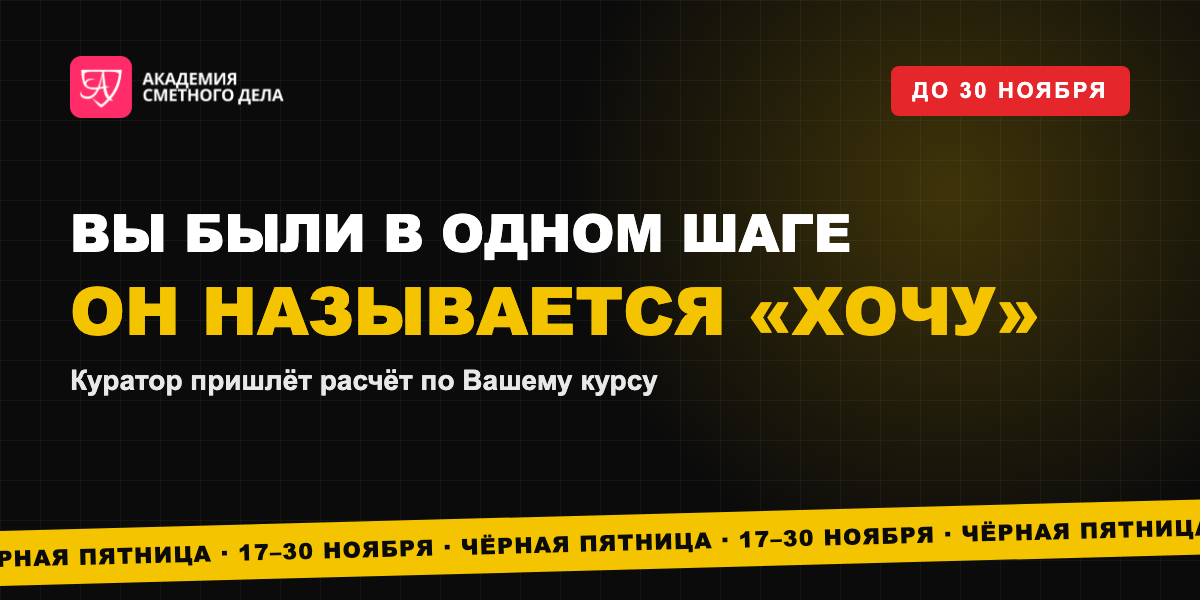
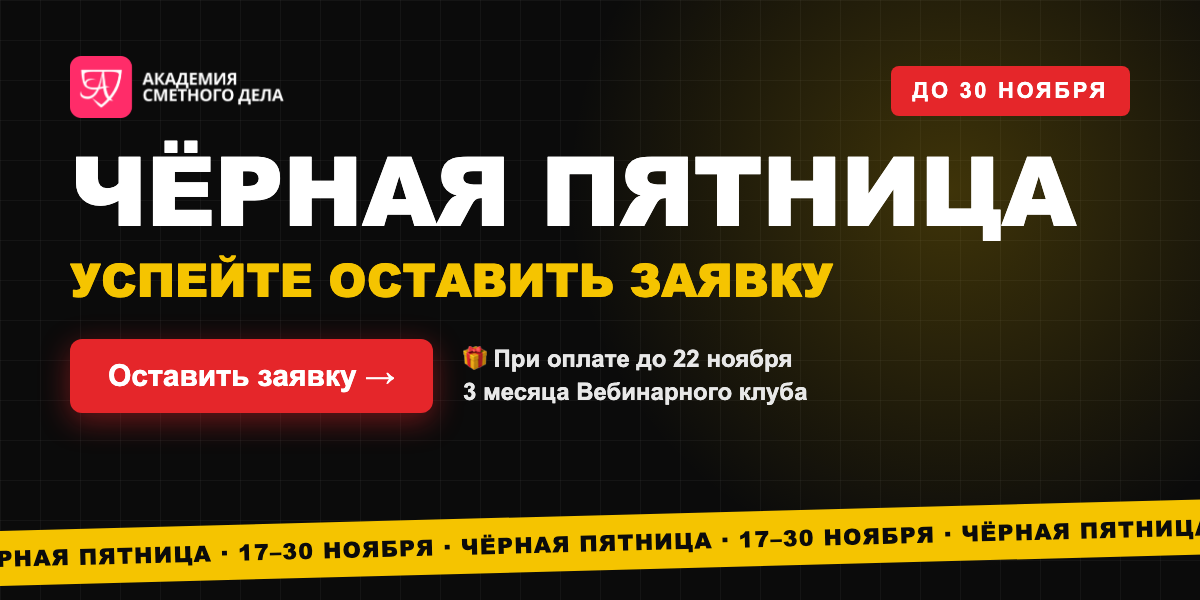
Add files via upload

Changed region(s): [[0.0308, 0.24, 0.8942, 0.72]]

diff --git a/p_20-11_vypuskniki.html b/p_20-11_vypuskniki.html
@@ -16,45 +16,46 @@
 
 <div class="subj">
   <b class="h">20.11 · ВЫПУСКНИКИ АКАДЕМИИ (СЕГМЕНТ «ДЕНЕГ ПРИНЕС БОЛЕЕ 10000») · ЭТОТ БЛОК В ПИСЬМО НЕ ПЕРЕНОСИТЬ</b>
-  <p style="margin:8px 0 4px;font-size:15px"><span style="color:#888">Тема 1:</span> <b>⚫ Выпускникам: на странице для Вас другие цены</b></p>
-  <p style="margin:0 0 4px;font-size:15px"><span style="color:#888">Тема 2:</span> ⚫ {first_name}, Вы видите эту страницу не так, как все</p>
-  <p style="margin:0 0 4px;font-size:15px"><span style="color:#888">Тема 3:</span> ⏳ Курс пройден. Следующий с подарком до воскресенья</p>
-  <p style="margin:0 0 4px;font-size:15px"><span style="color:#888">Прехедер:</span> Цены выпускника видят только те, кто уже учился в Академии</p>
+  <p style="margin:8px 0 4px;font-size:15px"><span style="color:#888">Тема 1:</span> <b>⚫ Лучшие условия Чёрной пятницы для выпускников</b></p>
+  <p style="margin:0 0 4px;font-size:15px"><span style="color:#888">Тема 2:</span> ⚫ {first_name}, для Вас особые условия</p>
+  <p style="margin:0 0 4px;font-size:15px"><span style="color:#888">Тема 3:</span> 🎁 Выпускникам: подарок к курсу до воскресенья</p>
+  <p style="margin:0 0 4px;font-size:15px"><span style="color:#888">Прехедер:</span> Вы учились или учитесь в Академии, поэтому условия для Вас особые</p>
   <p style="margin:0;font-size:15px"><span style="color:#888">Баннер:</span> banner_20-11_vyp.png (1200×600, в письме 600 px), ссылка с баннера = ссылка кнопки</p>
 </div>
 
 <table role="presentation" width="100%" cellpadding="0" cellspacing="0" style="background:#eef0f3">
 <tr><td align="center" style="padding:0 0 32px">
-<div style="display:none;font-size:1px;color:#eef0f3;line-height:1px;max-height:0;max-width:0;opacity:0;overflow:hidden">Цены выпускника видят только те, кто уже учился в Академии&nbsp;&#847;&nbsp;&#847;&nbsp;&#847;&nbsp;&#847;&nbsp;&#847;&nbsp;&#847;</div>
+<div style="display:none;font-size:1px;color:#eef0f3;line-height:1px;max-height:0;max-width:0;opacity:0;overflow:hidden">Вы учились или учитесь в Академии, поэтому условия для Вас особые&nbsp;&#847;&nbsp;&#847;&nbsp;&#847;&nbsp;&#847;&nbsp;&#847;&nbsp;&#847;</div>
 <table role="presentation" class="wrap" width="600" cellpadding="0" cellspacing="0" bgcolor="#ffffff" style="width:600px;background:#ffffff;border-radius:12px;overflow:hidden">
 
   <tr><td style="padding:0;line-height:0"><a href="https://academia-bti.ru/chp2026/vypuskniki?utm_source=email&amp;utm_medium=rassylka&amp;utm_campaign=chp2026&amp;utm_content=pismo_20-11_vyp_banner"><img src="banner_20-11_vyp.png" width="600" alt="Чёрная пятница в Академии Сметного Дела до 30 ноября" style="display:block;width:100%;max-width:600px;height:auto;border:0"></a></td></tr>
 
   <tr><td class="pad" style="padding:36px 44px 6px">
       <p style="margin:0 0 18px;font-family:Arial,Helvetica,sans-serif;font-size:18px;line-height:1.6;color:#1f2329">Здравствуйте, {first_name}!</p>
-      <p style="margin:0 0 18px;font-family:Arial,Helvetica,sans-serif;font-size:17px;line-height:1.6;color:#1f2329">Вы уже прошли курс в Академии. Поэтому на странице Чёрной пятницы для Вас стоят цены выпускника, они ниже цен акции для всех.</p>
-      <p style="margin:0 0 18px;font-family:Arial,Helvetica,sans-serif;font-size:17px;line-height:1.6;color:#1f2329">Какой курс следующий? После Курса начинающего сметчика это Курс повышения квалификации: ресурсно-индексный метод на практике и удостоверение. Тем, кто уже повышал квалификацию, подойдёт Годовая система с новой темой каждый месяц.</p>
+      <p style="margin:0 0 18px;font-family:Arial,Helvetica,sans-serif;font-size:17px;line-height:1.6;color:#1f2329">Сегодня та самая Чёрная пятница. И самые лучшие условия в ней мы приготовили для выпускников.</p>
+      <p style="margin:0 0 18px;font-family:Arial,Helvetica,sans-serif;font-size:17px;line-height:1.6;color:#1f2329">Вы уже учились или учитесь у нас в Академии. Поэтому для Вас условия особые, лучше, чем для всех.</p>
+      <p style="margin:0 0 18px;font-family:Arial,Helvetica,sans-serif;font-size:17px;line-height:1.6;color:#1f2329">Перейдите на страницу акции и оставьте заявку. Куратор посмотрит, что Вы уже прошли, и подберёт для Вас индивидуальные условия на следующий курс.</p>
   </td></tr>
 
   <tr><td class="pad" style="padding:8px 44px 8px">
     <table role="presentation" width="100%" cellpadding="0" cellspacing="0" bgcolor="#FFF7D6" style="background:#FFF7D6;border-left:5px solid #F5C400;border-radius:8px">
     <tr><td style="padding:22px 24px 12px">
       <p style="margin:0 0 16px;font-family:Arial,Helvetica,sans-serif;font-size:19px;line-height:1.3;font-weight:bold;color:#0b0b0b">Что мы предлагаем выпускникам</p>
-      <table role="presentation" cellpadding="0" cellspacing="0"><tr><td valign="top" style="padding:0 12px 12px 0;font-family:Arial,Helvetica,sans-serif;font-size:18px;line-height:1.5;color:#E5262A;font-weight:bold">&#10004;</td><td style="padding:0 0 12px;font-family:Arial,Helvetica,sans-serif;font-size:16px;line-height:1.55;color:#1f2329">Цены выпускника на все курсы Академии до 30&nbsp;ноября. Статус выпускника куратор подтвердит при расчёте.</td></tr><tr><td valign="top" style="padding:0 12px 12px 0;font-family:Arial,Helvetica,sans-serif;font-size:18px;line-height:1.5;color:#E5262A;font-weight:bold">&#10004;</td><td style="padding:0 0 12px;font-family:Arial,Helvetica,sans-serif;font-size:16px;line-height:1.55;color:#1f2329">К любому курсу в подарок запись конференции «Горизонты сметного дела».</td></tr><tr><td valign="top" style="padding:0 12px 12px 0;font-family:Arial,Helvetica,sans-serif;font-size:18px;line-height:1.5;color:#E5262A;font-weight:bold">&#10004;</td><td style="padding:0 0 12px;font-family:Arial,Helvetica,sans-serif;font-size:16px;line-height:1.55;color:#1f2329"><b>При оплате до 22&nbsp;ноября включительно</b> ещё и 3&nbsp;месяца Вебинарного клуба: больше 500&nbsp;записей мастер-классов Академии.</td></tr><tr><td valign="top" style="padding:0 12px 12px 0;font-family:Arial,Helvetica,sans-serif;font-size:18px;line-height:1.5;color:#E5262A;font-weight:bold">&#10004;</td><td style="padding:0 0 12px;font-family:Arial,Helvetica,sans-serif;font-size:16px;line-height:1.55;color:#1f2329">Рассрочка без переплат. Нажмите «Хочу» на карточке курса, куратор пришлёт расчёт и поможет оформить.</td></tr></table>
+      <table role="presentation" cellpadding="0" cellspacing="0"><tr><td valign="top" style="padding:0 12px 12px 0;font-family:Arial,Helvetica,sans-serif;font-size:18px;line-height:1.5;color:#E5262A;font-weight:bold">&#10004;</td><td style="padding:0 0 12px;font-family:Arial,Helvetica,sans-serif;font-size:16px;line-height:1.55;color:#1f2329">Особые условия выпускника на все курсы Академии до 30&nbsp;ноября.</td></tr><tr><td valign="top" style="padding:0 12px 12px 0;font-family:Arial,Helvetica,sans-serif;font-size:18px;line-height:1.5;color:#E5262A;font-weight:bold">&#10004;</td><td style="padding:0 0 12px;font-family:Arial,Helvetica,sans-serif;font-size:16px;line-height:1.55;color:#1f2329">Индивидуальный подбор курса и условий от куратора.</td></tr><tr><td valign="top" style="padding:0 12px 12px 0;font-family:Arial,Helvetica,sans-serif;font-size:18px;line-height:1.5;color:#E5262A;font-weight:bold">&#10004;</td><td style="padding:0 0 12px;font-family:Arial,Helvetica,sans-serif;font-size:16px;line-height:1.55;color:#1f2329">К любому курсу в подарок запись конференции «Горизонты сметного дела».</td></tr><tr><td valign="top" style="padding:0 12px 12px 0;font-family:Arial,Helvetica,sans-serif;font-size:18px;line-height:1.5;color:#E5262A;font-weight:bold">&#10004;</td><td style="padding:0 0 12px;font-family:Arial,Helvetica,sans-serif;font-size:16px;line-height:1.55;color:#1f2329"><b>При оплате до 22&nbsp;ноября включительно</b> ещё и 3&nbsp;месяца Вебинарного клуба: больше 500&nbsp;записей мастер-классов Академии.</td></tr><tr><td valign="top" style="padding:0 12px 12px 0;font-family:Arial,Helvetica,sans-serif;font-size:18px;line-height:1.5;color:#E5262A;font-weight:bold">&#10004;</td><td style="padding:0 0 12px;font-family:Arial,Helvetica,sans-serif;font-size:16px;line-height:1.55;color:#1f2329">Рассрочка без переплат.</td></tr></table>
     </td></tr></table>
   </td></tr>
 
   <tr><td class="pad" style="padding:30px 44px 10px;text-align:center">
     <table role="presentation" cellpadding="0" cellspacing="0" align="center" style="margin:0 auto"><tr>
 <td align="center" bgcolor="#E5262A" style="background:#E5262A;border-radius:8px">
-<a href="https://academia-bti.ru/chp2026/vypuskniki?utm_source=email&amp;utm_medium=rassylka&amp;utm_campaign=chp2026&amp;utm_content=pismo_20-11_vyp_button" style="display:inline-block;padding:17px 38px;font-family:Arial,Helvetica,sans-serif;font-size:18px;font-weight:bold;color:#ffffff;text-decoration:none">Увидеть цены выпускника &rarr;</a>
+<a href="https://academia-bti.ru/chp2026/vypuskniki?utm_source=email&amp;utm_medium=rassylka&amp;utm_campaign=chp2026&amp;utm_content=pismo_20-11_vyp_button" style="display:inline-block;padding:17px 38px;font-family:Arial,Helvetica,sans-serif;font-size:18px;font-weight:bold;color:#ffffff;text-decoration:none">Оставить заявку &rarr;</a>
 </td></tr></table>
   </td></tr>
 
   <tr><td class="pad" style="padding:24px 44px 10px">
-      <p style="margin:0 0 18px;font-family:Arial,Helvetica,sans-serif;font-size:17px;line-height:1.6;color:#1f2329">Сегодня пятница, 20&nbsp;ноября, та самая. Цены выпускника открыты на странице акции.</p>
+      <p style="margin:0 0 18px;font-family:Arial,Helvetica,sans-serif;font-size:17px;line-height:1.6;color:#1f2329">Чёрная пятница идёт до 30&nbsp;ноября, подарок к оплате действует до воскресенья. Оставьте заявку сегодня, чтобы куратор успел всё подобрать.</p>
       <p style="margin:0 0 22px;font-family:Arial,Helvetica,sans-serif;font-size:17px;line-height:1.6;color:#1f2329">С уважением,<br><b>команда Академии Сметного Дела</b></p>
-      <p style="margin:0 0 8px;font-family:Arial,Helvetica,sans-serif;font-size:15px;line-height:1.6;color:#5b616b">P.S. Не знаете, что выбрать? Ответьте на письмо, куратор посмотрит, что Вы уже прошли, и подберёт курс.</p>
+      <p style="margin:0 0 8px;font-family:Arial,Helvetica,sans-serif;font-size:15px;line-height:1.6;color:#5b616b">P.S. Остались вопросы? Ответьте на это письмо, куратор ответит лично.</p>
   </td></tr>
 
   <tr><td class="pad" style="padding:20px 44px 28px;border-top:1px solid #e6e8eb;font-family:Arial,Helvetica,sans-serif;font-size:13px;line-height:1.6;color:#8a9099">

diff --git a/p_20-11_zashli.html b/p_20-11_zashli.html
@@ -16,46 +16,46 @@
 
 <div class="subj">
   <b class="h">20.11 · ЗАХОДИЛИ НА СТРАНИЦУ АКЦИИ И НЕ ОСТАВИЛИ ЗАЯВКУ (ВСЕ СЕГМЕНТЫ) · ЭТОТ БЛОК В ПИСЬМО НЕ ПЕРЕНОСИТЬ</b>
-  <p style="margin:8px 0 4px;font-size:15px"><span style="color:#888">Тема 1:</span> <b>👀 {first_name}, Вы не нажали одну кнопку</b></p>
-  <p style="margin:0 0 4px;font-size:15px"><span style="color:#888">Тема 2:</span> ⚫ Вы были в одном шаге. Он короче, чем кажется</p>
-  <p style="margin:0 0 4px;font-size:15px"><span style="color:#888">Тема 3:</span> Нажмите «Хочу», и куратор посчитает всё за Вас</p>
-  <p style="margin:0 0 4px;font-size:15px"><span style="color:#888">Прехедер:</span> Сегодня та самая пятница, а подарок к курсу до воскресенья</p>
+  <p style="margin:8px 0 4px;font-size:15px"><span style="color:#888">Тема 1:</span> <b>⚫ Сегодня та самая пятница. Успейте оставить заявку</b></p>
+  <p style="margin:0 0 4px;font-size:15px"><span style="color:#888">Тема 2:</span> ⚫ {first_name}, успейте оставить заявку</p>
+  <p style="margin:0 0 4px;font-size:15px"><span style="color:#888">Тема 3:</span> 🎁 Самые лучшие условия года. Подарок до воскресенья</p>
+  <p style="margin:0 0 4px;font-size:15px"><span style="color:#888">Прехедер:</span> Сейчас лучшие условия на всё обучение Академии. Не упустите их</p>
   <p style="margin:0;font-size:15px"><span style="color:#888">Баннер:</span> banner_20-11_zashli.png (1200×600, в письме 600 px), ссылка с баннера = ссылка кнопки</p>
 </div>
 
 <table role="presentation" width="100%" cellpadding="0" cellspacing="0" style="background:#eef0f3">
 <tr><td align="center" style="padding:0 0 32px">
-<div style="display:none;font-size:1px;color:#eef0f3;line-height:1px;max-height:0;max-width:0;opacity:0;overflow:hidden">Сегодня та самая пятница, а подарок к курсу до воскресенья&nbsp;&#847;&nbsp;&#847;&nbsp;&#847;&nbsp;&#847;&nbsp;&#847;&nbsp;&#847;</div>
+<div style="display:none;font-size:1px;color:#eef0f3;line-height:1px;max-height:0;max-width:0;opacity:0;overflow:hidden">Сейчас лучшие условия на всё обучение Академии. Не упустите их&nbsp;&#847;&nbsp;&#847;&nbsp;&#847;&nbsp;&#847;&nbsp;&#847;&nbsp;&#847;</div>
 <table role="presentation" class="wrap" width="600" cellpadding="0" cellspacing="0" bgcolor="#ffffff" style="width:600px;background:#ffffff;border-radius:12px;overflow:hidden">
 
   <tr><td style="padding:0;line-height:0"><a href="https://academia-bti.ru/chp2026/akciya?utm_source=email&amp;utm_medium=rassylka&amp;utm_campaign=chp2026&amp;utm_content=pismo_20-11_zashli_banner"><img src="banner_20-11_zashli.png" width="600" alt="Чёрная пятница в Академии Сметного Дела до 30 ноября" style="display:block;width:100%;max-width:600px;height:auto;border:0"></a></td></tr>
 
   <tr><td class="pad" style="padding:36px 44px 6px">
       <p style="margin:0 0 18px;font-family:Arial,Helvetica,sans-serif;font-size:18px;line-height:1.6;color:#1f2329">Здравствуйте, {first_name}!</p>
-      <p style="margin:0 0 18px;font-family:Arial,Helvetica,sans-serif;font-size:17px;line-height:1.6;color:#1f2329">Вы открывали страницу Чёрной пятницы в Академии. До заявки оставалось одно нажатие.</p>
-      <p style="margin:0 0 18px;font-family:Arial,Helvetica,sans-serif;font-size:17px;line-height:1.6;color:#1f2329">«Хочу» на карточке курса не оплата. Это просьба к куратору: он пришлёт расчёт, расскажет про рассрочку и ответит на вопросы.</p>
-      <p style="margin:0 0 18px;font-family:Arial,Helvetica,sans-serif;font-size:17px;line-height:1.6;color:#1f2329">Выбираете между двумя курсами? Напишите в ответ, какими, куратор поможет сравнить.</p>
+      <p style="margin:0 0 18px;font-family:Arial,Helvetica,sans-serif;font-size:17px;line-height:1.6;color:#1f2329">Сегодня 20&nbsp;ноября, та самая Чёрная пятница. Раз в год мы открываем самые лучшие условия на всё обучение Академии, и сейчас именно это время.</p>
+      <p style="margin:0 0 18px;font-family:Arial,Helvetica,sans-serif;font-size:17px;line-height:1.6;color:#1f2329">Хотите освоить профессию сметчика, повысить квалификацию или разобраться в отдельной теме, выгоднее, чем сейчас, не будет. После 30&nbsp;ноября условия Чёрной пятницы закончатся.</p>
+      <p style="margin:0 0 18px;font-family:Arial,Helvetica,sans-serif;font-size:17px;line-height:1.6;color:#1f2329">А тем, кто оплатит обучение до воскресенья, мы дарим ещё и 3&nbsp;месяца Вебинарного клуба. Нам очень хочется, чтобы Вы успели.</p>
   </td></tr>
 
   <tr><td class="pad" style="padding:8px 44px 8px">
     <table role="presentation" width="100%" cellpadding="0" cellspacing="0" bgcolor="#FFF7D6" style="background:#FFF7D6;border-left:5px solid #F5C400;border-radius:8px">
     <tr><td style="padding:22px 24px 12px">
-      <p style="margin:0 0 16px;font-family:Arial,Helvetica,sans-serif;font-size:19px;line-height:1.3;font-weight:bold;color:#0b0b0b">Что ждёт Вас на странице</p>
-      <table role="presentation" cellpadding="0" cellspacing="0"><tr><td valign="top" style="padding:0 12px 12px 0;font-family:Arial,Helvetica,sans-serif;font-size:18px;line-height:1.5;color:#E5262A;font-weight:bold">&#10004;</td><td style="padding:0 0 12px;font-family:Arial,Helvetica,sans-serif;font-size:16px;line-height:1.55;color:#1f2329">Все курсы Академии на особых условиях до 30&nbsp;ноября.</td></tr><tr><td valign="top" style="padding:0 12px 12px 0;font-family:Arial,Helvetica,sans-serif;font-size:18px;line-height:1.5;color:#E5262A;font-weight:bold">&#10004;</td><td style="padding:0 0 12px;font-family:Arial,Helvetica,sans-serif;font-size:16px;line-height:1.55;color:#1f2329">К любому курсу в подарок запись конференции «Горизонты сметного дела».</td></tr><tr><td valign="top" style="padding:0 12px 12px 0;font-family:Arial,Helvetica,sans-serif;font-size:18px;line-height:1.5;color:#E5262A;font-weight:bold">&#10004;</td><td style="padding:0 0 12px;font-family:Arial,Helvetica,sans-serif;font-size:16px;line-height:1.55;color:#1f2329"><b>При оплате до 22&nbsp;ноября включительно</b> ещё и 3&nbsp;месяца Вебинарного клуба: больше 500&nbsp;записей мастер-классов Академии.</td></tr><tr><td valign="top" style="padding:0 12px 12px 0;font-family:Arial,Helvetica,sans-serif;font-size:18px;line-height:1.5;color:#E5262A;font-weight:bold">&#10004;</td><td style="padding:0 0 12px;font-family:Arial,Helvetica,sans-serif;font-size:16px;line-height:1.55;color:#1f2329">Рассрочка без переплат. Нажмите «Хочу» на карточке курса, куратор пришлёт расчёт и поможет оформить.</td></tr></table>
+      <p style="margin:0 0 16px;font-family:Arial,Helvetica,sans-serif;font-size:19px;line-height:1.3;font-weight:bold;color:#0b0b0b">Что Вы получаете в Чёрную пятницу</p>
+      <table role="presentation" cellpadding="0" cellspacing="0"><tr><td valign="top" style="padding:0 12px 12px 0;font-family:Arial,Helvetica,sans-serif;font-size:18px;line-height:1.5;color:#E5262A;font-weight:bold">&#10004;</td><td style="padding:0 0 12px;font-family:Arial,Helvetica,sans-serif;font-size:16px;line-height:1.55;color:#1f2329">Самые лучшие условия года на все курсы Академии до 30&nbsp;ноября.</td></tr><tr><td valign="top" style="padding:0 12px 12px 0;font-family:Arial,Helvetica,sans-serif;font-size:18px;line-height:1.5;color:#E5262A;font-weight:bold">&#10004;</td><td style="padding:0 0 12px;font-family:Arial,Helvetica,sans-serif;font-size:16px;line-height:1.55;color:#1f2329">К любому курсу в подарок запись конференции «Горизонты сметного дела».</td></tr><tr><td valign="top" style="padding:0 12px 12px 0;font-family:Arial,Helvetica,sans-serif;font-size:18px;line-height:1.5;color:#E5262A;font-weight:bold">&#10004;</td><td style="padding:0 0 12px;font-family:Arial,Helvetica,sans-serif;font-size:16px;line-height:1.55;color:#1f2329"><b>При оплате до 22&nbsp;ноября включительно</b> ещё и 3&nbsp;месяца Вебинарного клуба: больше 500&nbsp;записей мастер-классов Академии.</td></tr><tr><td valign="top" style="padding:0 12px 12px 0;font-family:Arial,Helvetica,sans-serif;font-size:18px;line-height:1.5;color:#E5262A;font-weight:bold">&#10004;</td><td style="padding:0 0 12px;font-family:Arial,Helvetica,sans-serif;font-size:16px;line-height:1.55;color:#1f2329">Рассрочка без переплат и помощь в выборе курса.</td></tr></table>
     </td></tr></table>
   </td></tr>
 
   <tr><td class="pad" style="padding:30px 44px 10px;text-align:center">
     <table role="presentation" cellpadding="0" cellspacing="0" align="center" style="margin:0 auto"><tr>
 <td align="center" bgcolor="#E5262A" style="background:#E5262A;border-radius:8px">
-<a href="https://academia-bti.ru/chp2026/akciya?utm_source=email&amp;utm_medium=rassylka&amp;utm_campaign=chp2026&amp;utm_content=pismo_20-11_zashli_button" style="display:inline-block;padding:17px 38px;font-family:Arial,Helvetica,sans-serif;font-size:18px;font-weight:bold;color:#ffffff;text-decoration:none">Сделать этот шаг &rarr;</a>
+<a href="https://academia-bti.ru/chp2026/akciya?utm_source=email&amp;utm_medium=rassylka&amp;utm_campaign=chp2026&amp;utm_content=pismo_20-11_zashli_button" style="display:inline-block;padding:17px 38px;font-family:Arial,Helvetica,sans-serif;font-size:18px;font-weight:bold;color:#ffffff;text-decoration:none">Оставить заявку &rarr;</a>
 </td></tr></table>
   </td></tr>
 
   <tr><td class="pad" style="padding:24px 44px 10px">
-      <p style="margin:0 0 18px;font-family:Arial,Helvetica,sans-serif;font-size:17px;line-height:1.6;color:#1f2329">Сегодня пятница, 20&nbsp;ноября, та самая. Подарок к оплате действует до воскресенья.</p>
+      <p style="margin:0 0 18px;font-family:Arial,Helvetica,sans-serif;font-size:17px;line-height:1.6;color:#1f2329">Оставьте заявку сегодня, и мы подберём курс и условия под Вашу задачу. Будем рады видеть Вас среди наших учеников.</p>
       <p style="margin:0 0 22px;font-family:Arial,Helvetica,sans-serif;font-size:17px;line-height:1.6;color:#1f2329">С уважением,<br><b>команда Академии Сметного Дела</b></p>
-      <p style="margin:0 0 8px;font-family:Arial,Helvetica,sans-serif;font-size:15px;line-height:1.6;color:#5b616b">P.S. Расскажите в ответ на письмо, чем занимаетесь, и куратор подберёт курс под Вашу задачу.</p>
+      <p style="margin:0 0 8px;font-family:Arial,Helvetica,sans-serif;font-size:15px;line-height:1.6;color:#5b616b">P.S. Остались вопросы? Просто ответьте на это письмо, мы ответим лично.</p>
   </td></tr>
 
   <tr><td class="pad" style="padding:20px 44px 28px;border-top:1px solid #e6e8eb;font-family:Arial,Helvetica,sans-serif;font-size:13px;line-height:1.6;color:#8a9099">

diff --git a/p_20-11_specialisty.html b/p_20-11_specialisty.html
@@ -15,26 +15,29 @@
 <body>
 
 <div class="subj">
-  <b class="h">20.11 · СПЕЦИАЛИСТЫ СМЕТНОГО ДЕЛА (ПОВЫШЕНИЕ КВАЛИФИКАЦИИ, ГОДОВАЯ СИСТЕМА) · ЭТОТ БЛОК В ПИСЬМО НЕ ПЕРЕНОСИТЬ</b>
-  <p style="margin:8px 0 4px;font-size:15px"><span style="color:#888">Тема 1:</span> <b>⚫ {first_name}, на что сослаться, когда смету вернули?</b></p>
-  <p style="margin:0 0 4px;font-size:15px"><span style="color:#888">Тема 2:</span> ⚫ Специалистам сметного дела: та самая пятница</p>
-  <p style="margin:0 0 4px;font-size:15px"><span style="color:#888">Тема 3:</span> ⏳ Удостоверение за три недели и подарок до воскресенья</p>
-  <p style="margin:0 0 4px;font-size:15px"><span style="color:#888">Прехедер:</span> Методики в редакциях 2026 года, ФСНБ-2022 и ресурсно-индексный метод на практике</p>
+  <b class="h">20.11 · СПЕЦИАЛИСТЫ СМЕТНОГО ДЕЛА (ВЫСОТКА, ПОВЫШЕНИЕ КВАЛИФИКАЦИИ, СПЕЦКУРСЫ, ГОДОВАЯ СИСТЕМА) · ЭТОТ БЛОК В ПИСЬМО НЕ ПЕРЕНОСИТЬ</b>
+  <p style="margin:8px 0 4px;font-size:15px"><span style="color:#888">Тема 1:</span> <b>⚫ Сегодня та самая Чёрная пятница</b></p>
+  <p style="margin:0 0 4px;font-size:15px"><span style="color:#888">Тема 2:</span> ⚫ {first_name}, сегодня та самая Чёрная пятница</p>
+  <p style="margin:0 0 4px;font-size:15px"><span style="color:#888">Тема 3:</span> 🎁 Курсы, спецкурсы и Годовая система с подарком</p>
+  <p style="margin:0 0 4px;font-size:15px"><span style="color:#888">Прехедер:</span> Раз в год лучшие условия сразу на всё обучение Академии. Подарок до воскресенья</p>
   <p style="margin:0;font-size:15px"><span style="color:#888">Баннер:</span> banner_20-11_spec.png (1200×600, в письме 600 px), ссылка с баннера = ссылка кнопки</p>
 </div>
 
 <table role="presentation" width="100%" cellpadding="0" cellspacing="0" style="background:#eef0f3">
 <tr><td align="center" style="padding:0 0 32px">
-<div style="display:none;font-size:1px;color:#eef0f3;line-height:1px;max-height:0;max-width:0;opacity:0;overflow:hidden">Методики в редакциях 2026 года, ФСНБ-2022 и ресурсно-индексный метод на практике&nbsp;&#847;&nbsp;&#847;&nbsp;&#847;&nbsp;&#847;&nbsp;&#847;&nbsp;&#847;</div>
+<div style="display:none;font-size:1px;color:#eef0f3;line-height:1px;max-height:0;max-width:0;opacity:0;overflow:hidden">Раз в год лучшие условия сразу на всё обучение Академии. Подарок до воскресенья&nbsp;&#847;&nbsp;&#847;&nbsp;&#847;&nbsp;&#847;&nbsp;&#847;&nbsp;&#847;</div>
 <table role="presentation" class="wrap" width="600" cellpadding="0" cellspacing="0" bgcolor="#ffffff" style="width:600px;background:#ffffff;border-radius:12px;overflow:hidden">
 
   <tr><td style="padding:0;line-height:0"><a href="https://academia-bti.ru/chp2026/akciya?utm_source=email&amp;utm_medium=rassylka&amp;utm_campaign=chp2026&amp;utm_content=pismo_20-11_spec_banner"><img src="banner_20-11_spec.png" width="600" alt="Чёрная пятница в Академии Сметного Дела до 30 ноября" style="display:block;width:100%;max-width:600px;height:auto;border:0"></a></td></tr>
 
   <tr><td class="pad" style="padding:36px 44px 6px">
       <p style="margin:0 0 18px;font-family:Arial,Helvetica,sans-serif;font-size:18px;line-height:1.6;color:#1f2329">Здравствуйте, {first_name}!</p>
-      <p style="margin:0 0 18px;font-family:Arial,Helvetica,sans-serif;font-size:17px;line-height:1.6;color:#1f2329">Замечание экспертизы: неверный квартал цен. Или перевозка посчитана не так. Вы правите смету вечером и ищете, где это написано.</p>
-      <p style="margin:0 0 18px;font-family:Arial,Helvetica,sans-serif;font-size:17px;line-height:1.6;color:#1f2329">На Курсе повышения квалификации изменения 2022–2026 годов собраны в 9 модулей. Две сметы ресурсно-индексным методом Вы составите сами, их проверит куратор. Пройти курс можно за три недели, не уходя с работы. В конце удостоверение о повышении квалификации на 72&nbsp;часа.</p>
-      <p style="margin:0 0 18px;font-family:Arial,Helvetica,sans-serif;font-size:17px;line-height:1.6;color:#1f2329">Хотите учиться весь год? В Годовой системе каждый месяц новая тема и сертификат по ней.</p>
+      <p style="margin:0 0 18px;font-family:Arial,Helvetica,sans-serif;font-size:17px;line-height:1.6;color:#1f2329">Сегодня 20&nbsp;ноября. Та самая Чёрная пятница. Раз в год мы открываем лучшие условия сразу на всё обучение Академии, и этот день настал.</p>
+      <p style="margin:0 0 18px;font-family:Arial,Helvetica,sans-serif;font-size:17px;line-height:1.6;color:#1f2329">Вы работаете со сметами и знаете, как быстро всё меняется: методики, ФСНБ-2022, ресурсно-индексный метод, замечания экспертизы. Разбираться в этом одному, вечерами после работы, долго и тяжело. Мы собрали всё, чтобы Вы работали уверенно и спокойно.</p>
+      <p style="margin:0 0 18px;font-family:Arial,Helvetica,sans-serif;font-size:17px;line-height:1.6;color:#1f2329"><b>Курс повышения квалификации.</b> Изменения 2022–2026 годов в 9 модулях, две сметы ресурсно-индексным методом с проверкой куратора, удостоверение на 72&nbsp;часа.</p>
+      <p style="margin:0 0 18px;font-family:Arial,Helvetica,sans-serif;font-size:17px;line-height:1.6;color:#1f2329"><b>Спецкурсы по отдельным направлениям.</b> Экспертиза сметной документации, НМЦК и смета контракта, текущий ремонт и другие темы.</p>
+      <p style="margin:0 0 18px;font-family:Arial,Helvetica,sans-serif;font-size:17px;line-height:1.6;color:#1f2329"><b>Годовая система.</b> Каждый месяц новая тема и сертификат по ней. Целый год рядом с экспертами Академии.</p>
+      <p style="margin:0 0 18px;font-family:Arial,Helvetica,sans-serif;font-size:17px;line-height:1.6;color:#1f2329"><b>Мы рекомендуем Высотку для опытных.</b> Это два Курса повышения квалификации и Годовая система «Элита» одной покупкой: обучение на весь год вперёд, и в Чёрную пятницу это самое выгодное наше предложение.</p>
   </td></tr>
 
   <tr><td class="pad" style="padding:8px 44px 8px">
@@ -48,14 +51,14 @@
   <tr><td class="pad" style="padding:30px 44px 10px;text-align:center">
     <table role="presentation" cellpadding="0" cellspacing="0" align="center" style="margin:0 auto"><tr>
 <td align="center" bgcolor="#E5262A" style="background:#E5262A;border-radius:8px">
-<a href="https://academia-bti.ru/chp2026/akciya?utm_source=email&amp;utm_medium=rassylka&amp;utm_campaign=chp2026&amp;utm_content=pismo_20-11_spec_button" style="display:inline-block;padding:17px 38px;font-family:Arial,Helvetica,sans-serif;font-size:18px;font-weight:bold;color:#ffffff;text-decoration:none">Посмотреть условия &rarr;</a>
+<a href="https://academia-bti.ru/chp2026/akciya?utm_source=email&amp;utm_medium=rassylka&amp;utm_campaign=chp2026&amp;utm_content=pismo_20-11_spec_button" style="display:inline-block;padding:17px 38px;font-family:Arial,Helvetica,sans-serif;font-size:18px;font-weight:bold;color:#ffffff;text-decoration:none">Выбрать обучение &rarr;</a>
 </td></tr></table>
   </td></tr>
 
   <tr><td class="pad" style="padding:24px 44px 10px">
-      <p style="margin:0 0 18px;font-family:Arial,Helvetica,sans-serif;font-size:17px;line-height:1.6;color:#1f2329">Сегодня пятница, 20&nbsp;ноября, та самая. Условия на оба курса и рассрочку мы показываем на странице акции.</p>
+      <p style="margin:0 0 18px;font-family:Arial,Helvetica,sans-serif;font-size:17px;line-height:1.6;color:#1f2329">Такие условия бывают раз в год. Откройте страницу акции и выберите своё обучение, пока Чёрная пятница идёт.</p>
       <p style="margin:0 0 22px;font-family:Arial,Helvetica,sans-serif;font-size:17px;line-height:1.6;color:#1f2329">С уважением,<br><b>команда Академии Сметного Дела</b></p>
-      <p style="margin:0 0 8px;font-family:Arial,Helvetica,sans-serif;font-size:15px;line-height:1.6;color:#5b616b">P.S. Не знаете, что Вам нужнее? Ответьте на письмо парой слов о своей работе, куратор подберёт курс.</p>
+      <p style="margin:0 0 8px;font-family:Arial,Helvetica,sans-serif;font-size:15px;line-height:1.6;color:#5b616b">P.S. Не знаете, что выбрать? Ответьте на письмо парой слов о своей работе, куратор подберёт обучение.</p>
   </td></tr>
 
   <tr><td class="pad" style="padding:20px 44px 28px;border-top:1px solid #e6e8eb;font-family:Arial,Helvetica,sans-serif;font-size:13px;line-height:1.6;color:#8a9099">

diff --git a/index.html b/index.html
@@ -184,7 +184,7 @@ footer{color:var(--muted);font-size:13px}
 
 <script src="files.js"></script>
 <script>
-const UPDATED = "19 ноября, 18:30 МСК";
+const UPDATED = "19 ноября, 19:00 МСК";
 const TODAY = 19;
 const ST = {
   ok:["s-ok","Отправлено"], wait:["s-wait","У Регины"], check:["s-check","На проверке у Ильдара"], work:["s-work","Пишем"], plan:["s-plan","План"]
@@ -212,10 +212,10 @@ const L = [
   {d:19,t:"утро",seg:"Начинающие (Курс начинающего сметчика «Профессия»)",subj:"⚫ Начинающим: профессия сметчика за 59 000 ₽ вместо 74 900",f:["19-11_nachinayushchie"],st:"wait",m:"Конверсионное письмо по болям сегмента · клуб 3 мес. при оплате до 22.11 · передано Регине 18.11"},
   {d:19,t:"утро",seg:"Специалисты сметного дела (Курс повышения квалификации)",subj:"⚫ Специалистам сметного дела: 39 500 ₽ вместо 44 900",f:["19-11_specialisty"],st:"wait",m:"Конверсионное письмо по болям сегмента · клуб 3 мес. при оплате до 22.11 · передано Регине 18.11"},
   {d:19,t:"утро",seg:"Выпускники (сегмент «Денег принёс более 10000»)",subj:"⚫ Выпускникам: ещё −10% к ценам Чёрной пятницы",f:["19-11_vypuskniki"],st:"wait",m:"Конверсионное письмо по болям сегмента · клуб 3 мес. при оплате до 22.11 · передано Регине 18.11 · ссылки на chp2026/vypuskniki"},
-  {d:20,t:"08:00",seg:"Начинающие",subj:"⚫ {first_name}, что ответить на «опыт от года»?",f:["20-11_nachinayushchie"],st:"wait",m:"Классика: баннер, вступление, предложение, без цен · передано Регине 19.11 (замена чёрной версии)"},
-  {d:20,t:"08:00",seg:"Специалисты сметного дела",subj:"⚫ {first_name}, на что сослаться, когда смету вернули?",f:["20-11_specialisty"],st:"wait",m:"Классика: баннер, вступление, предложение, без цен · передано Регине 19.11 (замена чёрной версии)"},
-  {d:20,t:"08:00",seg:"Выпускники (сегмент «Денег принес более 10000»)",subj:"⚫ Выпускникам: на странице для Вас другие цены",f:["20-11_vypuskniki"],st:"wait",m:"Классика: баннер, вступление, предложение, без цен · передано Регине 19.11 (замена чёрной версии) · ссылки на chp2026/vypuskniki"},
-  {d:20,t:"12:00",seg:"Заходили на страницу акции и не оставили заявку",subj:"👀 {first_name}, Вы не нажали одну кнопку",f:["20-11_zashli"],st:"wait",m:"Классика: баннер, вступление, предложение, без цен · передано Регине 19.11 (замена чёрной версии) · их исключить из писем 1–3"}
+  {d:20,t:"08:00",seg:"Начинающие",subj:"🎁 Подарок к курсу профессии. Сегодня та самая пятница",f:["20-11_nachinayushchie"],st:"wait",m:"Классика: баннер, вступление, предложение, без цен · версия 2 по правкам Ильдара, баннер «Чёрная пятница» с кнопкой · передано Регине 19.11"},
+  {d:20,t:"08:00",seg:"Специалисты сметного дела",subj:"⚫ Сегодня та самая Чёрная пятница",f:["20-11_specialisty"],st:"wait",m:"Классика: баннер, вступление, предложение, без цен · версия 2 по правкам Ильдара, баннер «Чёрная пятница» с кнопкой · передано Регине 19.11"},
+  {d:20,t:"08:00",seg:"Выпускники (сегмент «Денег принес более 10000»)",subj:"⚫ Лучшие условия Чёрной пятницы для выпускников",f:["20-11_vypuskniki"],st:"wait",m:"Классика: баннер, вступление, предложение, без цен · версия 2 по правкам Ильдара, баннер «Чёрная пятница» с кнопкой · передано Регине 19.11 · ссылки на chp2026/vypuskniki"},
+  {d:20,t:"12:00",seg:"Заходили на страницу акции и не оставили заявку",subj:"⚫ Сегодня та самая пятница. Успейте оставить заявку",f:["20-11_zashli"],st:"wait",m:"Классика: баннер, вступление, предложение, без цен · версия 2 по правкам Ильдара, баннер «Чёрная пятница» с кнопкой · передано Регине 19.11 · их исключить из писем 1–3"}
 ];
 
 const NOTES = {16:"Последний день записи", 17:"Открытие акции", 30:"Конец акции 23:59"};

diff --git a/p_20-11_nachinayushchie.html b/p_20-11_nachinayushchie.html
@@ -16,9 +16,9 @@
 
 <div class="subj">
   <b class="h">20.11 · НАЧИНАЮЩИЕ (КУРС НАЧИНАЮЩЕГО СМЕТЧИКА «ПРОФЕССИЯ») · ЭТОТ БЛОК В ПИСЬМО НЕ ПЕРЕНОСИТЬ</b>
-  <p style="margin:8px 0 4px;font-size:15px"><span style="color:#888">Тема 1:</span> <b>⚫ {first_name}, что ответить на «опыт от года»?</b></p>
-  <p style="margin:0 0 4px;font-size:15px"><span style="color:#888">Тема 2:</span> ⚫ Начинающим: сегодня та самая пятница</p>
-  <p style="margin:0 0 4px;font-size:15px"><span style="color:#888">Тема 3:</span> 🎁 Подарок к курсу профессии. Только до воскресенья</p>
+  <p style="margin:8px 0 4px;font-size:15px"><span style="color:#888">Тема 1:</span> <b>🎁 Подарок к курсу профессии. Сегодня та самая пятница</b></p>
+  <p style="margin:0 0 4px;font-size:15px"><span style="color:#888">Тема 2:</span> ⚫ {first_name}, сегодня та самая Чёрная пятница</p>
+  <p style="margin:0 0 4px;font-size:15px"><span style="color:#888">Тема 3:</span> ⚫ {first_name}, что ответить на «опыт от года»?</p>
   <p style="margin:0 0 4px;font-size:15px"><span style="color:#888">Прехедер:</span> 18 своих смет вместо пустой строки «опыт работы»</p>
   <p style="margin:0;font-size:15px"><span style="color:#888">Баннер:</span> banner_20-11_nach.png (1200×600, в письме 600 px), ссылка с баннера = ссылка кнопки</p>
 </div>
@@ -48,7 +48,7 @@
   <tr><td class="pad" style="padding:30px 44px 10px;text-align:center">
     <table role="presentation" cellpadding="0" cellspacing="0" align="center" style="margin:0 auto"><tr>
 <td align="center" bgcolor="#E5262A" style="background:#E5262A;border-radius:8px">
-<a href="https://academia-bti.ru/chp2026/akciya?utm_source=email&amp;utm_medium=rassylka&amp;utm_campaign=chp2026&amp;utm_content=pismo_20-11_nach_button" style="display:inline-block;padding:17px 38px;font-family:Arial,Helvetica,sans-serif;font-size:18px;font-weight:bold;color:#ffffff;text-decoration:none">Открыть условия курса &rarr;</a>
+<a href="https://academia-bti.ru/chp2026/akciya?utm_source=email&amp;utm_medium=rassylka&amp;utm_campaign=chp2026&amp;utm_content=pismo_20-11_nach_button" style="display:inline-block;padding:17px 38px;font-family:Arial,Helvetica,sans-serif;font-size:18px;font-weight:bold;color:#ffffff;text-decoration:none">Смотреть условия &rarr;</a>
 </td></tr></table>
   </td></tr>
 
